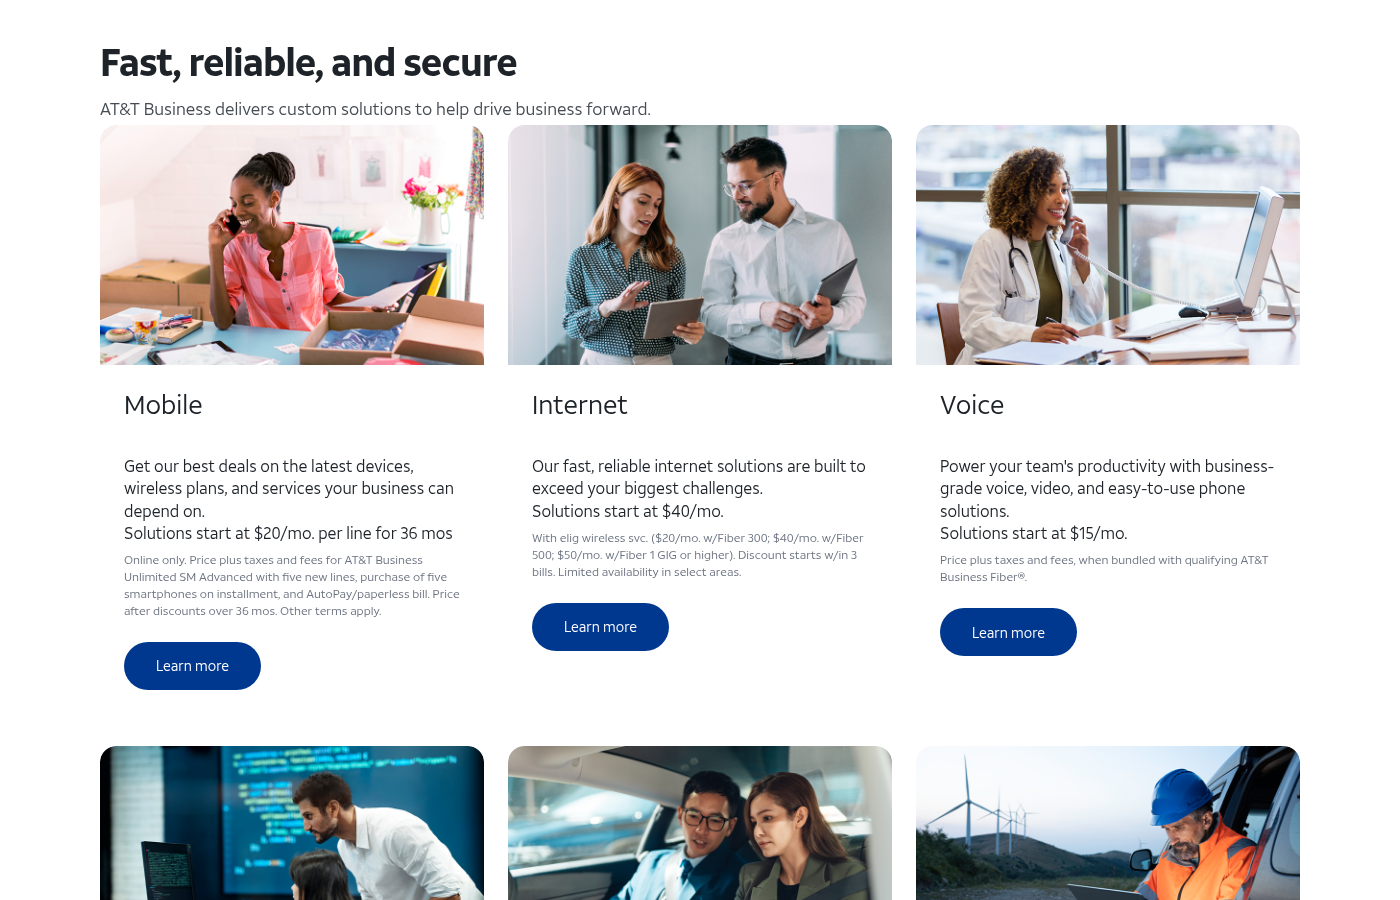
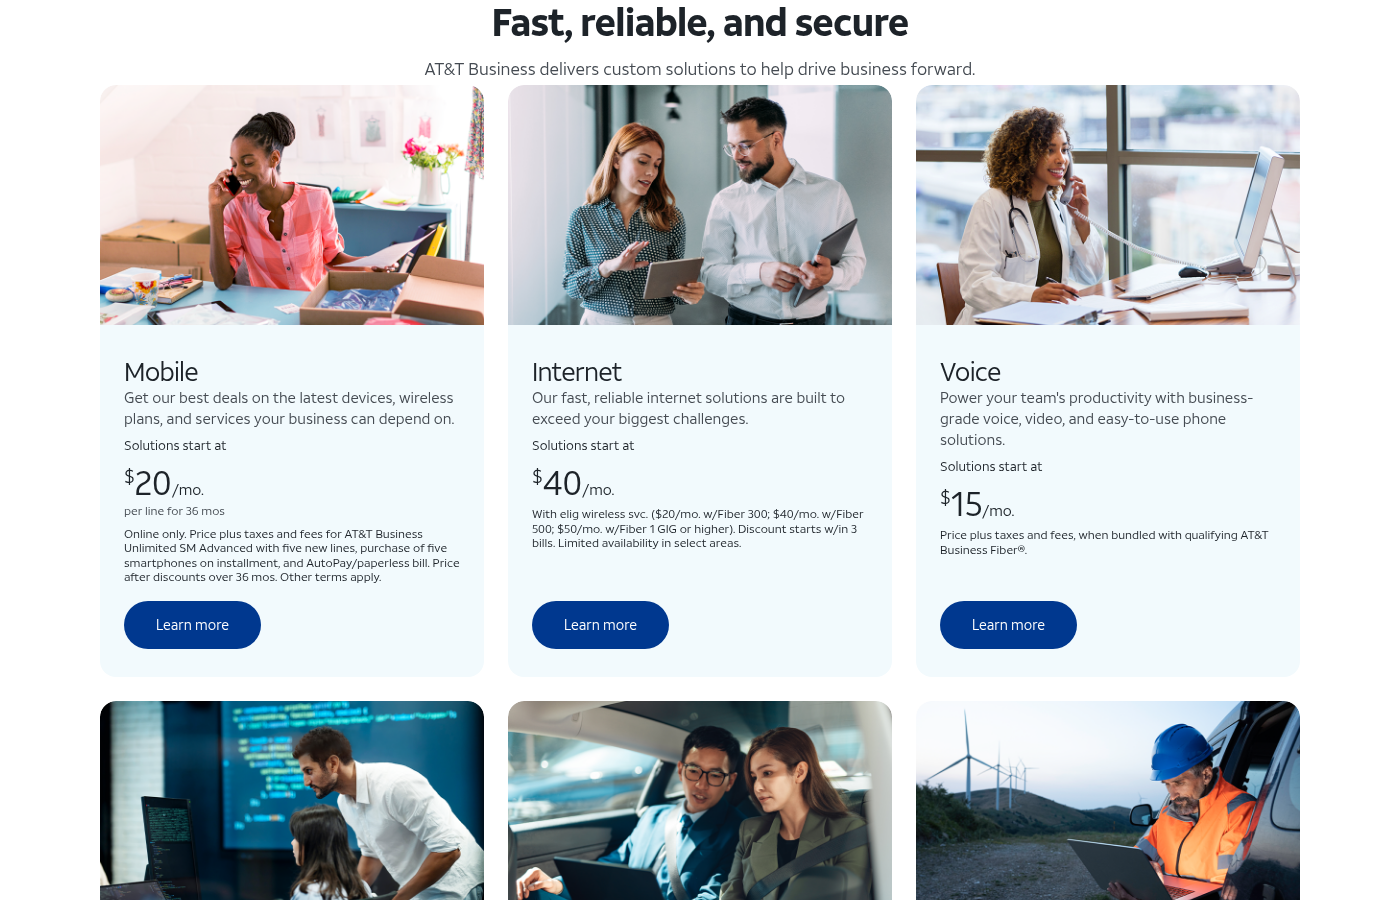
Add cards-product block
Automated migration updates generated by Experience Modernization Agent.

Changed files (9):
- blocks/cards-product/cards-product.css
- eds-cards-product-desktop.png
- eds-cards-product-fixed.png
- eds-cards-product-row2-fixed.png
- eds-cards-product-row2.png
- source-cards-clean.png
- source-cards-product-row1.png
- source-cards-product-row2.png
- source-cards-row2-clean.png

diff --git a/blocks/cards-product/cards-product.css b/blocks/cards-product/cards-product.css
@@ -58,17 +58,17 @@
 .cards-product .cards-product-title {
   font-size: 26px;
   font-weight: 400;
-  color: var(--text-color);
-  margin: 0 0 12px;
-  line-height: 1.2;
+  color: #1d2329;
+  margin: 8px 0 0;
+  line-height: 1.15;
 }
 
 /* Card description */
 .cards-product .cards-product-desc {
   font-size: 15px;
   color: #454b52;
-  line-height: 1.4;
-  margin: 0 0 8px;
+  line-height: 21px;
+  margin: 0;
 }
 
 /* Pricing section */
@@ -77,45 +77,45 @@
 }
 
 .cards-product .cards-product-price-label {
-  font-size: 15px;
-  color: #454b52;
-  margin: 0;
+  font-size: 13px;
+  color: #1d2329;
+  margin: 0 0 10px;
   line-height: 1.4;
 }
 
 .cards-product .cards-product-price-amount {
-  font-size: 48px;
-  font-weight: 700;
-  color: var(--text-color);
+  font-size: 34px;
+  font-weight: 400;
+  color: #1d2329;
   line-height: 1;
   margin: 0;
 }
 
 .cards-product .cards-product-dollar {
-  font-size: 20px;
+  font-size: 18px;
   vertical-align: super;
-  font-weight: 700;
+  font-weight: 400;
 }
 
 .cards-product .cards-product-period {
-  font-size: 20px;
+  font-size: 15px;
   font-weight: 400;
 }
 
 .cards-product .cards-product-price-sub {
   font-size: 12px;
   color: #454b52;
-  margin: 2px 0 0;
+  margin: 4px 0 0;
   line-height: 1.3;
 }
 
-/* Custom pricing text (bold) */
+/* Custom pricing text */
 .cards-product .cards-product-custom-pricing {
   font-size: 15px;
-  font-weight: 700;
-  color: var(--text-color);
-  margin: 8px 0;
-  line-height: 1.4;
+  font-weight: 400;
+  color: #454b52;
+  margin: 12px 0 0;
+  line-height: 21px;
 }
 
 /* Disclaimer text */
@@ -123,8 +123,8 @@
   font-size: 12px;
   font-style: normal;
   color: #1d2329;
-  margin: 8px 0 0;
-  line-height: 1.2;
+  margin: 0;
+  line-height: 14.4px;
 }
 
 /* CTA link - pill button */
